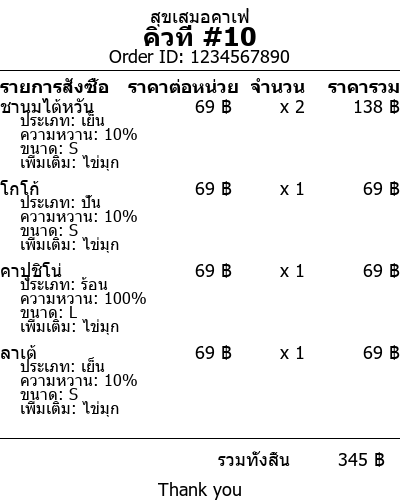
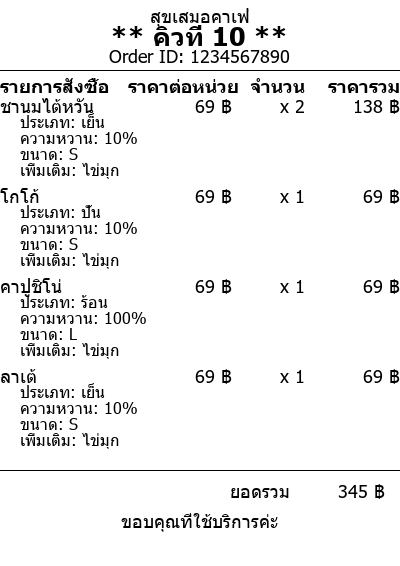
final format

diff --git a/slip_image.py b/slip_image.py
@@ -2,9 +2,9 @@ from PIL import Image, ImageDraw, ImageFont
 
 def create_receipt_image(data):
     width = 400  # Fixed width
-    base_height = 175  # Space for headers, queue number, and footer
+    base_height = 206  # Space for headers, queue number, and footer
     line_height = 26   # Height per order item
-    detail_height = 14  # Additional height per extra detail (sweetness, size, addon)
+    detail_height = 16  # Additional height per extra detail (sweetness, size, addon)
     
     # Calculate required height
     item_count = len(data['order'])
@@ -29,7 +29,7 @@ def create_receipt_image(data):
         draw.text((width//2, 15), data['store_name'], font=font, fill='black', anchor='mm')
 
         # Draw queue number
-        draw.text((width//2, 35), f"คิวที่ #{data['queue_number']}", font=queue_font, fill='black', anchor='mm')
+        draw.text((width//2, 35), f"** คิวที่ {data['queue_number']} **", font=queue_font, fill='black', anchor='mm')
 
         # Draw order ID
         draw.text((width//2, 55), f"Order ID: {data['order_id']}", font=normal_font, fill='black', anchor='mm')
@@ -89,12 +89,12 @@ def create_receipt_image(data):
         # Calculate total
         y_pos += 20
         total = sum(item[0] * item[2] for item in data['order'])
-        draw.text((width-110, y_pos), "รวมทั้งสิ้น", font=font, fill='black', anchor='rm')
+        draw.text((width-110, y_pos), "ยอดรวม", font=font, fill='black', anchor='rm')
         draw.text((width-15, y_pos), f"{total} ฿", font=font, fill='black', anchor='rm')
 
         # Draw thank you message
         y_pos += 30
-        draw.text((width//2, y_pos), "Thank you", font=font, fill='black', anchor='mm')
+        draw.text((width//2, y_pos), "ขอบคุณที่ใช้บริการค่ะ", font=font, fill='black', anchor='mm')
 
         # Save the image
         image.save('receipt.png')
